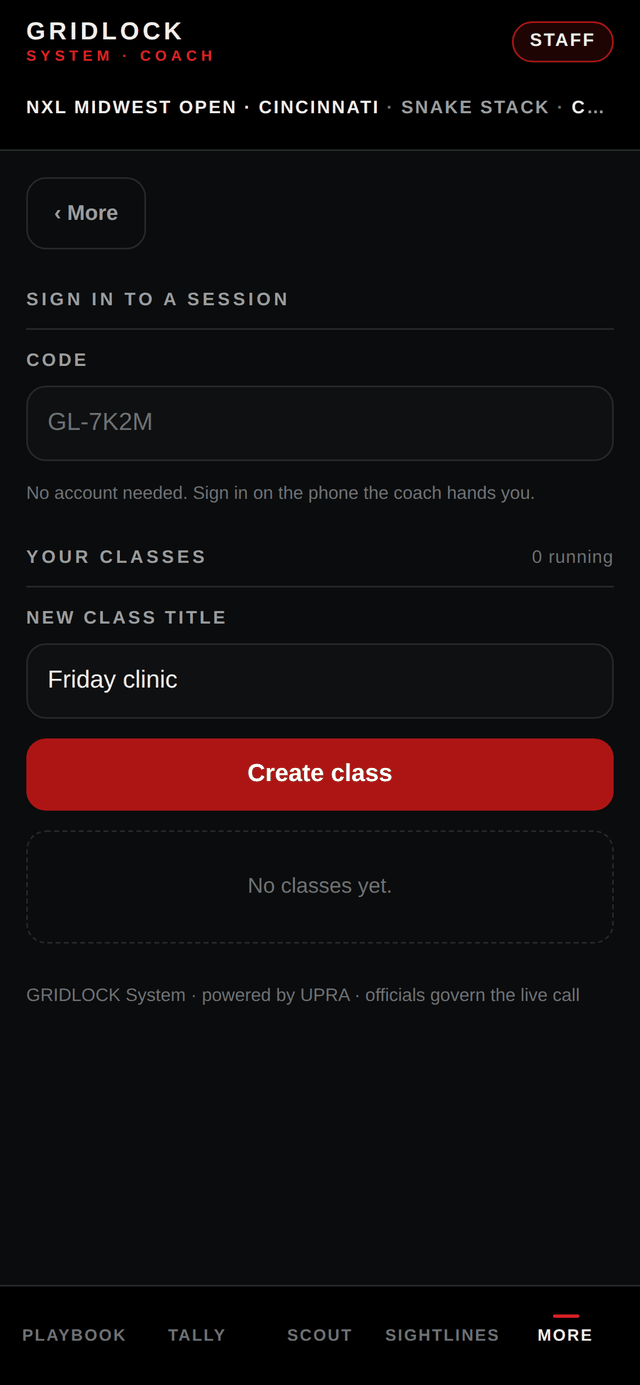
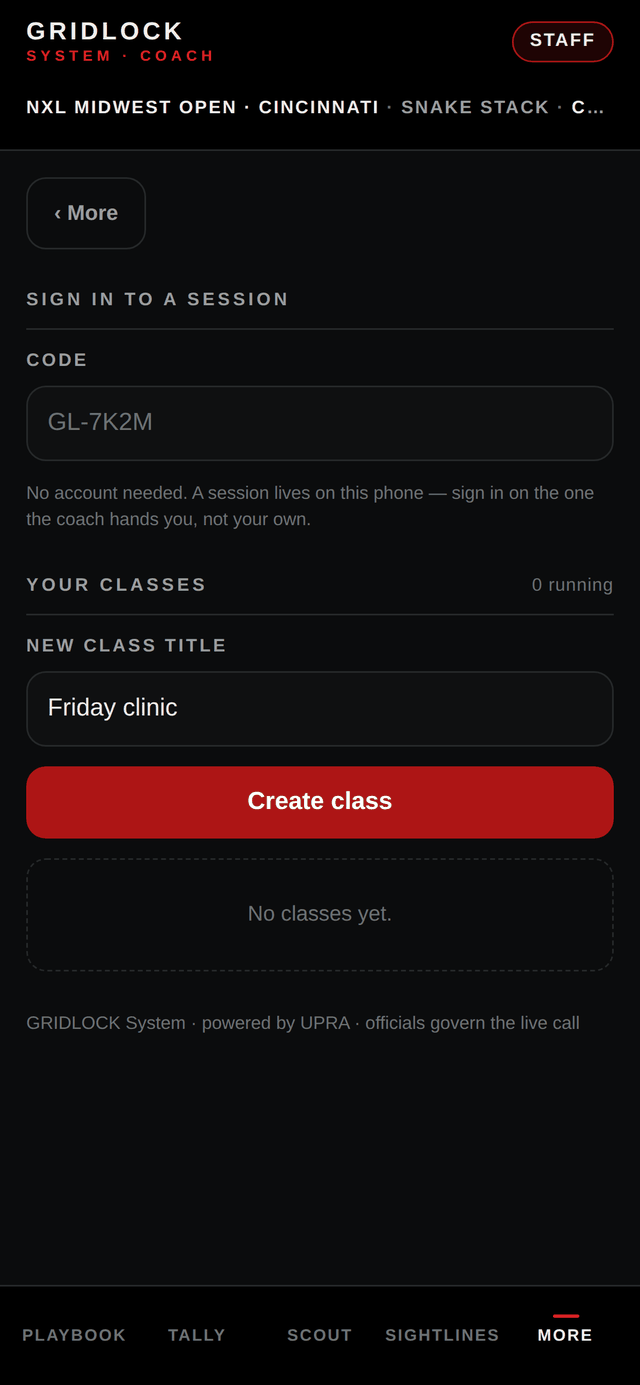
Put the field on screen when the app opens
A coach opening Playbook saw a tip, the call card, a big button, a break picker
and an overlay row — and the field, which is the entire product, started at
y=1450 on an iPhone. Four blocks of controls stood in front of the one thing
worth looking at. It measured fine and tested green the whole time, because
nothing I had written checks whether the important thing is visible.

The field now sits directly under the call, with Play and the overlay toggles
beneath it and the break picker after that. On an iPhone the whole field is on
screen without scrolling; on an SE, 80% of it.

A fresh install also read "unassigned" five times with no way out of it. Direct
the five now explains what the five jobs are and offers a button straight to
Team, and the tally sheet says where its five come from instead of showing
1 2 3 4 5 with no explanation. The clinic sheet says a session lives on this
phone before you hit the error rather than after.

Seven checks lock the first run in: the field visible without scrolling, the
whole field above the fold, Play reachable, the empty squad routed to Team, that
route landing where it says, the tally explaining itself, and nothing inventing
a player.

260/260 function checks, 61/61 device checks across 14 devices, 58/58 bunkers at
0.00 ft, load test within budget.

Claude-Session: https://claude.ai/code/session_019NY29crEcm2oYkRmb2ARNX

diff --git a/web/index.html b/web/index.html
@@ -2117,7 +2117,7 @@ function playbook(){
   const key=S.script, br=BREAKS[key], m=breakMeta(key);
   const opp=pitOf("right");
   const roster=S.roster||[];
-  return `${tip("pb","Pick the break, play the paths, then read the five jobs off the list.")}
+  return `${tip("pb","The field is the call. Play it, then read the five jobs underneath.")}
 
   <div class="call">
     <div class="call__label">The call</div>
@@ -2133,24 +2133,28 @@ function playbook(){
     </div>
   </div>
 
+  <div class="field-wrap" data-live>${fieldSVG({edit:S.editPath})}</div>
+
   <button class="btn btn--lg btn--block" onclick="playPath()">${S.playing?"❚❚  Pause the break":"▶  Play the break"}</button>
+
+  <div class="toggles">
+    <button class="tgl ${S.faceOn?"on":""}" onclick="set({faceOn:!S.faceOn})"><i></i>Face</button>
+    <button class="tgl ${S.shotOn?"on":""}" onclick="set({shotOn:!S.shotOn})"><i></i>Shot lanes</button>
+    <button class="tgl ${S.editPath?"on":""}" onclick="set({editPath:!S.editPath,playing:false})"><i></i>Edit path</button>
+    <button class="btn btn--quiet" onclick="set({t:0,playing:false})">Reset</button>
+  </div>
+  ${S.editPath?`<p class="note">Drag a corner to move it, tap one to take it out, tap the line to add
+    one. Drag a player to point him. <button class="btn btn--danger" onclick="resetAllPaths()">Reset every
+    path</button></p>`:""}
 
   ${sec("Break", `<div class="seg">
       ${Object.entries(BREAKS).map(([k,v])=>`<button class="${key===k?"on":""}" onclick="set({script:'${k}',t:0,playing:false})">${esc(v.name)}</button>`).join("")}
-    </div>`, "Pick one")}
+    </div>`, curLayout().name)}
 
-  ${sec("Overlay", `<div class="toggles">
-      <button class="tgl ${S.faceOn?"on":""}" onclick="set({faceOn:!S.faceOn})"><i></i>Face</button>
-      <button class="tgl ${S.shotOn?"on":""}" onclick="set({shotOn:!S.shotOn})"><i></i>Shot lanes</button>
-      <button class="tgl ${S.editPath?"on":""}" onclick="set({editPath:!S.editPath,playing:false})"><i></i>Edit path</button>
-      <button class="btn btn--quiet" onclick="set({t:0,playing:false})">Reset</button>
-    </div>
-    ${S.editPath?`<p class="note">Drag a corner to move it, tap one to take it out, tap the line to add
-      one. Drag a player to point him. <button class="btn btn--danger" onclick="resetAllPaths()">Reset every
-      path</button></p>`:""}
-    <div class="field-wrap" data-live>${fieldSVG({edit:S.editPath})}</div>`, curLayout().name)}
-
-  ${sec("Direct the five", `<div class="assigns">
+  ${sec("Direct the five", `${roster.length?"":`<div class="empty" style="margin-bottom:var(--s4)">
+      These are the five jobs this break creates. Put names on them — <button class="btn"
+      style="margin-top:10px" onclick="set({tab:'more',more:'team'})">Add your squad</button></div>`}
+    <div class="assigns">
       ${currentPaths().map((pth,i)=>{
         const who=fiveFor(S.point||1)[i], d=directOf(pth.id);
         const bl=curLayout().bunkers;
@@ -2161,7 +2165,7 @@ function playbook(){
           <span class="assign__n">${pth.id}</span>
           <span class="assign__body">
             <span class="assign__job">${esc(pth.label)}</span>
-            <span class="assign__who">${who?esc("#"+who.num+" "+who.name):"unassigned"}</span>
+            <span class="assign__who">${who?esc("#"+who.num+" "+who.name):"no one on this job yet"}</span>
           </span>
           <span class="assign__ctl">
             <span class="ps">
@@ -2248,7 +2252,8 @@ function tally(){
     </div>
     <p class="note">Tap a player the moment he goes out.</p>
     <div class="who2">
-      ${col("us","Your five","var(--red)",mine.length?mine.map(p=>p.name):["1","2","3","4","5"])}
+      ${col("us", mine.length?"Your five":"Your five · add them in Team", "var(--red)",
+            mine.length?mine.map(p=>p.name):["1","2","3","4","5"])}
       ${col("them",esc(pitOf("right").name),"var(--blue)",["1","2","3","4","5"].map(n=>"#"+n))}
     </div>
     <button class="btn btn--block" onclick="nextPoint()">Next point</button>`, curLayout().name)}
@@ -2718,7 +2723,8 @@ function classesPage(){
       :(S.joinCode
         ? `<p class="warn">No open session with that code <b>on this phone</b>. Sessions live on the device
            that created them — sign in on the coach's phone, not your own.</p>`
-        : `<p class="note">No account needed. Sign in on the phone the coach hands you.</p>`)}`)}
+        : `<p class="note">No account needed. A session lives on this phone — sign in on the one the
+           coach hands you, not your own.</p>`)}`)}
 
   ${sec("Your classes", staffed()?`
       <div class="fld"><label>New class title</label>

diff --git a/test/functions.js b/test/functions.js
@@ -901,6 +901,40 @@ const ROSTER = [
   check("the handles go away when editing is off", await ev(() =>
     document.querySelectorAll("circle.hnd").length === 0));
 
+  /* ------------------------------------------------------------- first run */
+  G("First run");
+  await ev(() => { localStorage.removeItem("gridlock.coach.v2"); });
+  await page.reload({ waitUntil: "networkidle" });
+  await page.waitForTimeout(200);
+  await page.locator("button", { hasText: "Continue as guest" }).click();
+  await page.waitForTimeout(350);
+  check("the field is on screen without scrolling", await ev(() => {
+    const f = document.querySelector(".field-wrap").getBoundingClientRect();
+    return f.top < window.innerHeight * 0.55 && f.top > 0;
+  }));
+  check("the whole field fits above the fold on a phone", await ev(() => {
+    const f = document.querySelector(".field-wrap").getBoundingClientRect();
+    return Math.min(f.bottom, window.innerHeight) - f.top > f.height * 0.95;
+  }));
+  check("playing the break is reachable without scrolling", await ev(() => {
+    const btns = [...document.querySelectorAll("button")].filter(b => /Play the break/.test(b.textContent));
+    const r = btns[0].getBoundingClientRect();
+    return r.top < window.innerHeight;
+  }));
+  check("an empty squad is told where to go, not just left blank", await ev(() => {
+    const txt = document.querySelector(".main").textContent;
+    return /Put names on them/.test(txt) && /Add your squad/.test(txt);
+  }));
+  check("that route actually lands on Team", await ev(() => {
+    [...document.querySelectorAll("button")].find(b => /Add your squad/.test(b.textContent)).click();
+    return S.tab === "more" && S.more === "team";
+  }));
+  check("the tally says where its five come from", await ev(() => {
+    window.set({ tab: "tally" });
+    return /add them in Team/.test(document.querySelector(".main").textContent);
+  }));
+  check("nothing invents a player on a fresh install", await ev(() => (S.roster || []).length === 0));
+
   /* ------------------------------------------------ the rest of Scout */
   G("Breakouts");
   const AGAINST = {

diff --git a/README.md b/README.md
@@ -139,7 +139,7 @@ Four suites, all driving the real app in a real browser:
 
 | Command | What it proves |
 |---|---|
-| `npm test` | 253 assertions across every interactive function — auth, gating, all five tabs, all eleven More destinations, Scout's four sub-tabs, the 8-way pad, tally, movement, assess, classes, league, persistence, layout integrity, break routing, the roster editor, the walk, code words, lineups, path editing, per-team scouting, the matchup panel, cause of an out, the history it counts, saving and loading a copy, the opponent's breakouts, the field layers, the replay, the QR encoder and the house rules. |
+| `npm test` | 260 assertions across every interactive function — auth, gating, all five tabs, all eleven More destinations, Scout's four sub-tabs, the 8-way pad, tally, movement, assess, classes, league, persistence, layout integrity, break routing, the roster editor, the walk, code words, lineups, path editing, per-team scouting, the matchup panel, cause of an out, the history it counts, saving and loading a copy, the opponent's breakouts, the field layers, the replay, the QR encoder, the first run and the house rules. |
 | `npm run test:devices` | Every iPhone since the SE 2, the iPad line, and two Android references — 14 devices x 5 tabs. Checks for sideways scroll, a tab bar off the viewport, any tap target under 44 px, and running text past 80 characters a line. Safe-area padding is asserted from the CSS, since Chromium has no notch to emulate. |
 | `npm run verify:bunkers` | Reads the drawn SVG back out of the browser and compares every footprint against the digitized map, by bunker id. Currently 58/58 at 0.00 ft. |
 | `npm run loadtest` | A full season seeded on a 4x-throttled CPU. See `docs/SCALING.md`. |
